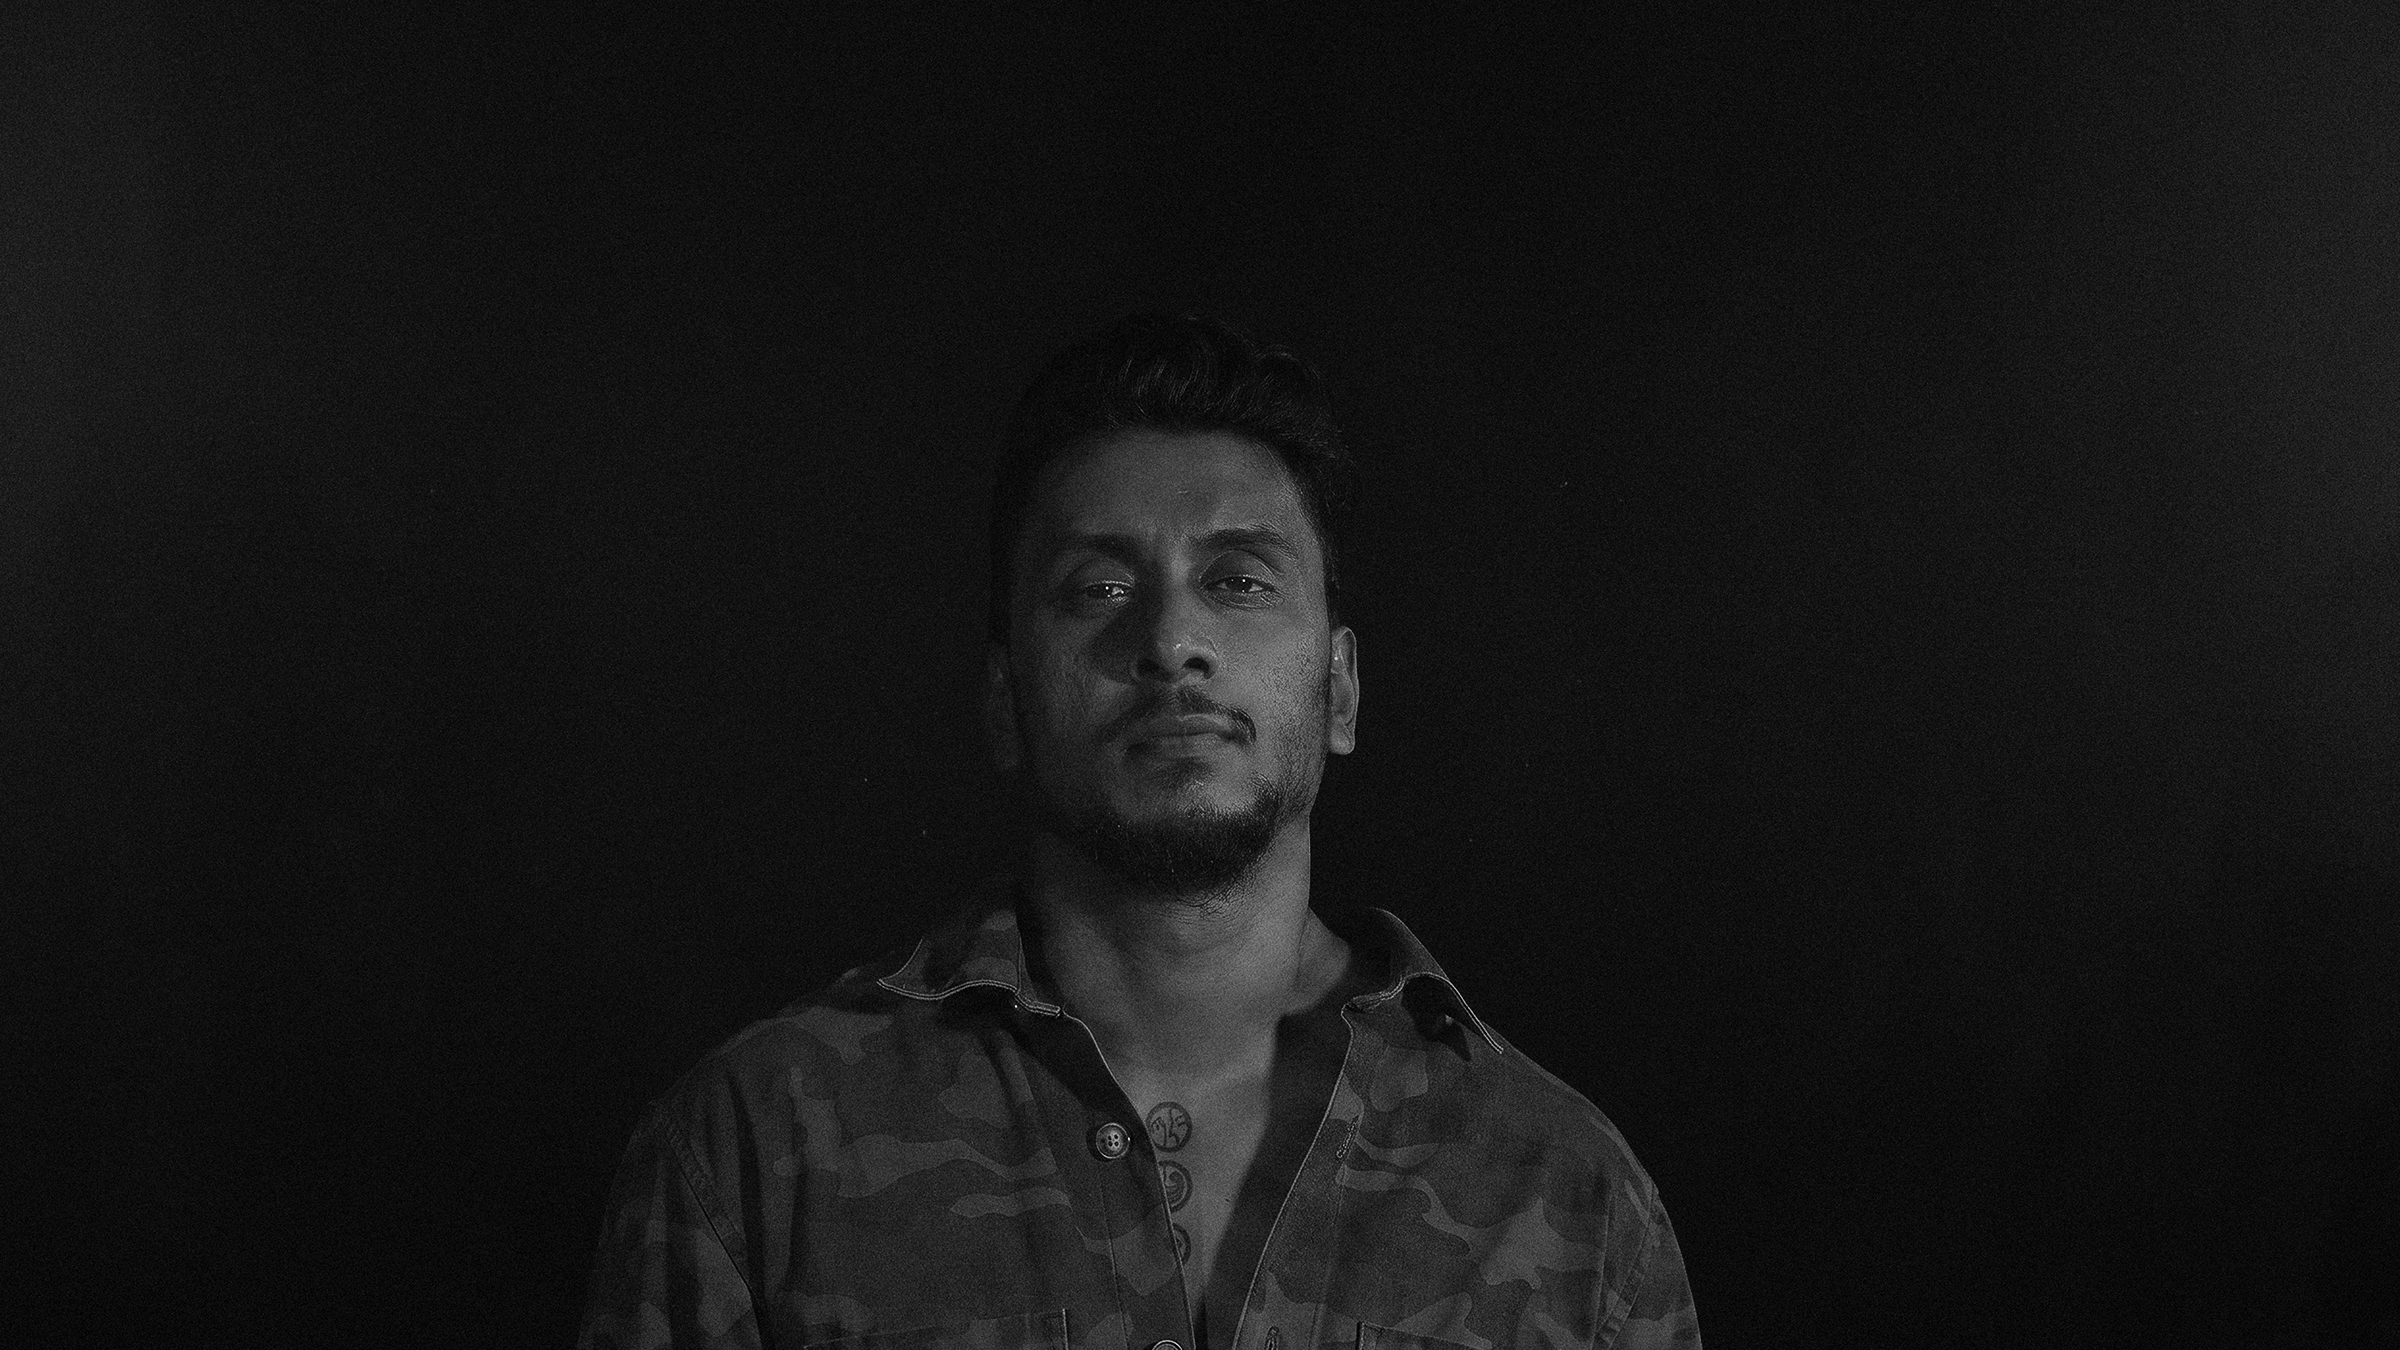
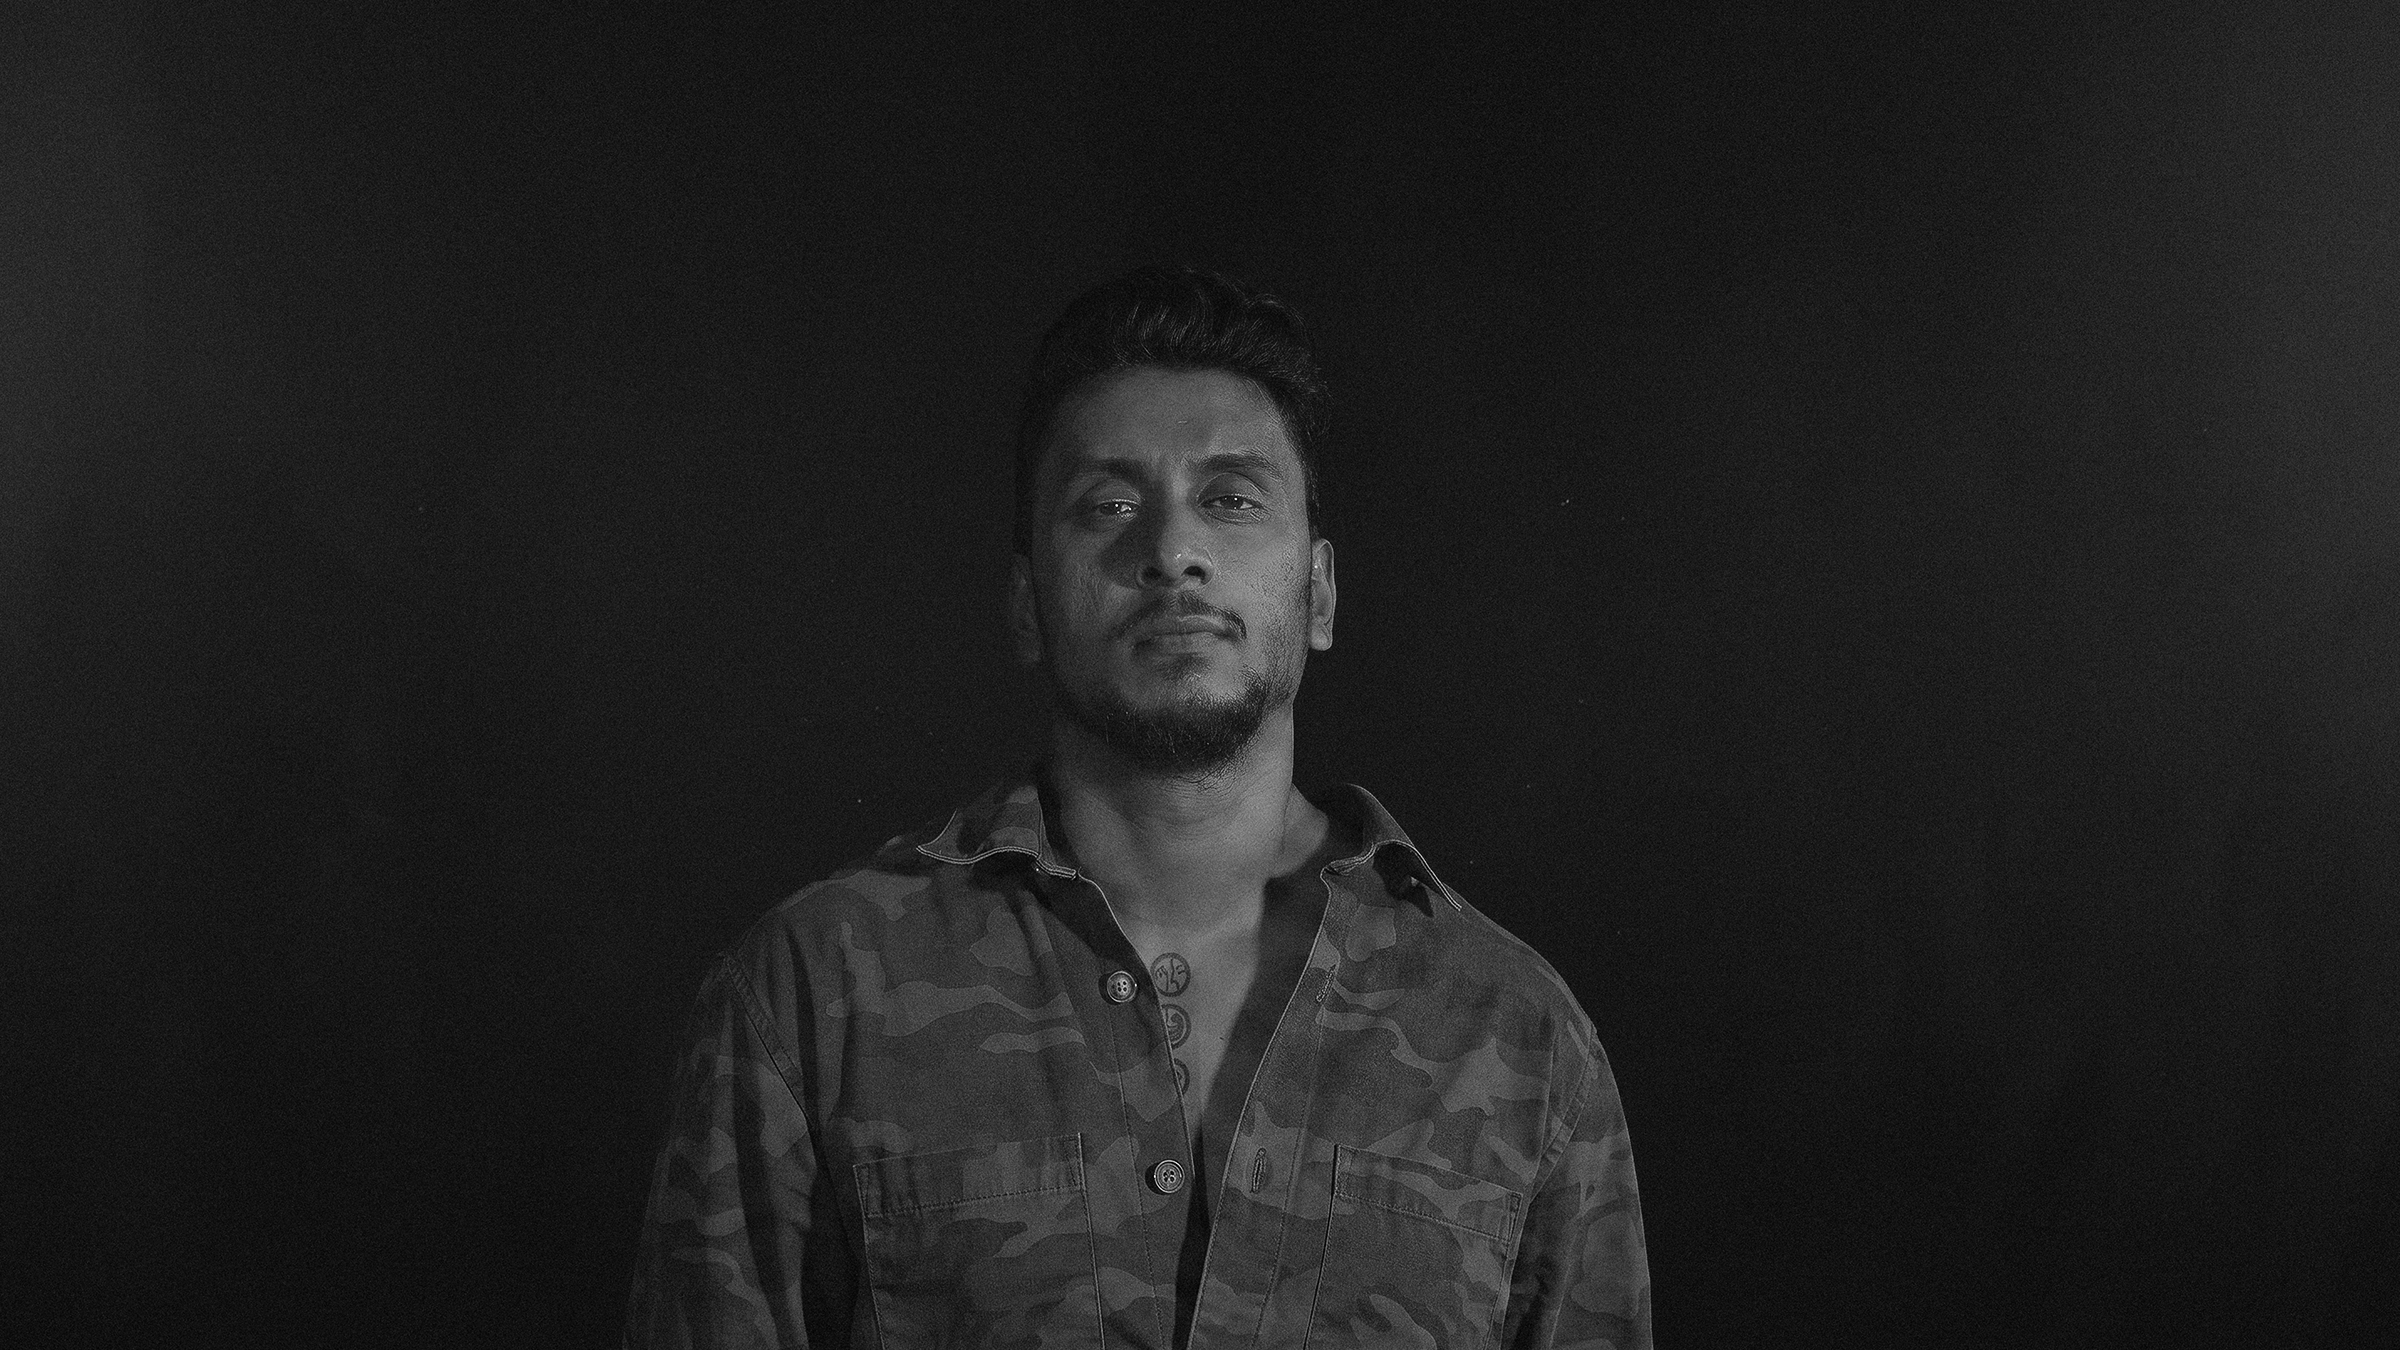
Update hero section

diff --git a/src/components/ui/HeroSlider.tsx b/src/components/ui/HeroSlider.tsx
@@ -191,6 +191,16 @@ const SLIDES: SlideData[] = [
     name: "joewin",
     image: "/Artists/joewin.png",
   },
+  {
+    id: 35,
+    name: "Wasthi Production",
+    image: "/Artists/Wasthi Production.png",
+  },
+  {
+    id: 36,
+    name: "Safa",
+    image: "/Artists/Safa.png",
+  },
 
 ]
 
